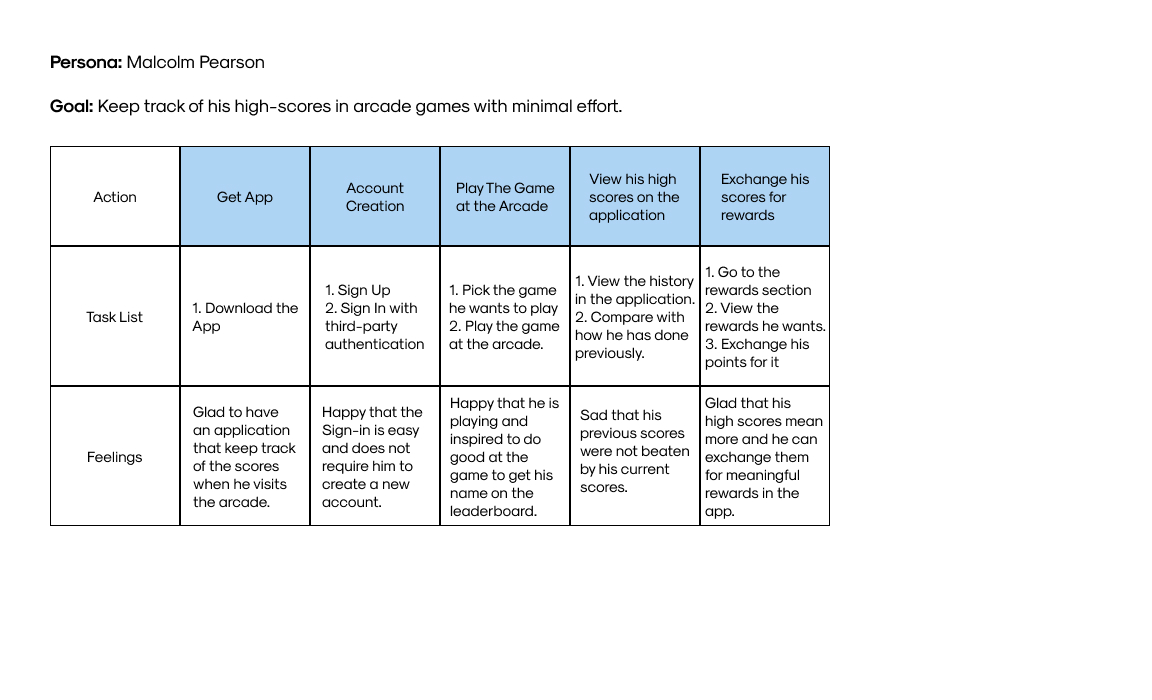
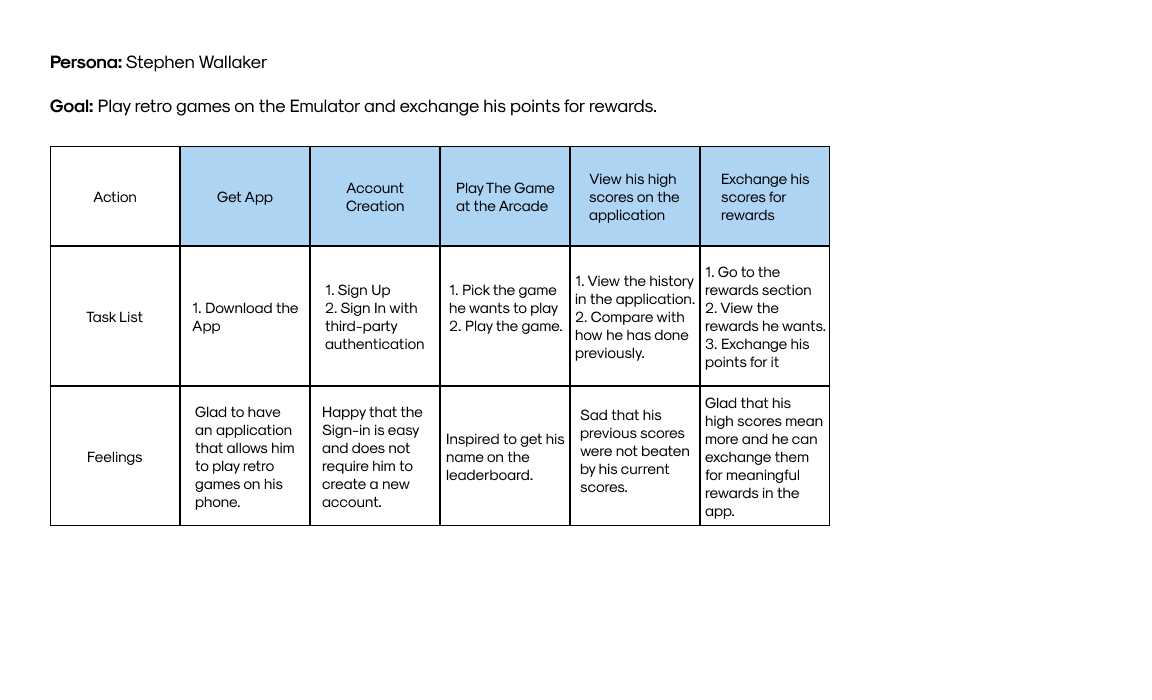
Arcad.Io
Arcad.Io Update

diff --git a/ArcadIo.html b/ArcadIo.html
@@ -6,7 +6,7 @@
 -->
 <html>
 	<head>
-		<title>Arcad.Io - Arcade Application Design</title>
+		<title>Arcad.Io - Emulator Application Design</title>
 		<meta charset="utf-8" />
 		<meta name="viewport" content="width=device-width, initial-scale=1, user-scalable=yes" />
 		<link rel="stylesheet" href="assets/css/main.css" />
@@ -64,35 +64,31 @@
 							
                             
                             <br><br>
-                            <h1>Arcad.Io - Arcade Application Design</h1>
+                            <h1>Arcad.Io - Emulator Application Design</h1>
                             <hr class="lined">
-                            <p>This is a mobile application concept for an Arcade based in Philadelphia. The users will be able to keep track of their scores when they visit the arcade, play retro games on a free emulator within the application and also exchange their high score points for rewards.</p>
+                            <p>This is a mobile application concept for an Emulator Application. The users will be able to play retro games on a free emulator present within the application, keep track of their high scores and exchange their high score points for rewards.</p>
                             
                             <h1>Defining the Users of the Application and it's Scope</h1>
                             <hr class="lined">
                             <p>
-                                The scope of this application is quite narrow. One category of users would be the ones who download the application to keep track of their high scores in the arcade but this is going to be the minority of the users because not many people visit arcade nowadays and even fewer would visit this specific arcade in Philadelphia. The majority of the users would download the application to use its emulator functionality which allows them to play retro games on their mobile phones without having to worry about installing ROMs.
+                                The scope of this application is quite narrow. The main users of the applications would download the application to use its emulator functionality which allows them to play retro games on their mobile phones without having to worry about installing ROMs. These people could have an interest in older video games or could be playing it for the Nostalgia factor.
                             </p>
                             
-                            <h1>Meet the users of Arcade Application</h1>
+                            <h1>Meet the users of Arcad.Io</h1>
                             <hr class="lined">
                             
                             <p>
-                                Based on the previous section, I have illustrated 2 prospective user personas for Arcade Application, one for each use case I mentioned in the previous section.
+                                Based on the previous section, I have illustrated a prospective user personas for Arcad.Io.
                             
-                            </p>
-                            
-                            <p>
-                                <img id = "persona1" class="imgcontent" src="images/Arcade_Application/UP1.jpg" alt="User Persona 1" style="width:85%">
                             </p>
                             
                             <p>
                                 <img id = "persona2" class="imgcontent" src="images/Arcade_Application/UP2.jpg" alt="User Persona 2" style="width:85%">
                             </p>
                             
-                            <h1>Illustrating the User Journey of Malcolm Pearson</h1>
+                            <h1>Illustrating the User Journey of Stephel Wallaker</h1>
                             <hr class="lined">
-                            <p>To get a better understanding about how the users would traverse through the application, I have created a user journey of how Malcolm Pearson would navigate through the application and accomplish his goal of keeping track of his high scores when he visits the arcade.</p>
+                            <p>To get a better understanding about how the users would traverse through the application, I have created a user journey of how Stephen Wallaker would navigate through the application and accomplish his goal of playing retro games and exchanging his high score points for rewards.</p>
                             
                             <p>
                                 <img id = "journey" class="imgcontent" src="images/Arcade_Application/MalcolmJourney.jpg" alt="journey" style="width:85%">
@@ -119,11 +115,11 @@
                             <h1>Wireframes</h1>
                             <hr class="lined">
                             <p>
-                                I have created a low-fidelity prototype for the application. For this Low-Fidelity Prototype, I focused more on the layout of the information on the screens rather than a specific user journey. This is because the user journey for the score tracking part of the application is entirely dependent on them playing the arcade while the emulator functionality is just 2 clicks. 
+                                I have created a low-fidelity prototype for the application. For this Low-Fidelity Prototype, I focused more on the layout of the information on the screens rather than a specific user journey. This is because the user journey for getting to the emulator functionality is just 2 clicks away from the Home Screen. 
                             </p>
                             
                             <p><button type="button" onclick=" window.open('https://marvelapp.com/prototype/593c492','_blank')">View Low-Fidelity Prototype</button></p>
-                            <p>I did stumble across an issue when designing the history page of the application which tracks the scores they got when playing at the arcade, sorted by date and time. For this screen, I had two different layout ideas of which I have posted pictures of below.</p>
+                            <p>I did stumble across an issue when designing the history page of the application which tracks the scores they got when playing the emulator, sorted by date and time. For this screen, I had two different layout ideas of which I have posted pictures of below.</p>
                             
                             <img id = "journey" class="imgcontent" src="images/Arcade_Application/History.jpg" alt="journey" style="width:25%">
                             
@@ -131,7 +127,7 @@
                             
                             <br><br>
                             
-                            <p>In my opinion, Layout 1 is easier for the users to understand since users are used to seeing the history page arranged similarly (Such as the Search History in Google Chrome). If I do follow the Design Heuristic which specifies that the designers should go for recognition over recall, I would choose Layout 1.</p>
+                            <p>In my opinion, Layout 1 is easier for the users to understand since users are used to seeing the history page arranged similarly (Such as the Search History in Google Chrome). If I do follow the  Design Heuristic which specifies that the designers should go for recognition over recall, I would choose Layout 1.</p>
                             
                             
                             
